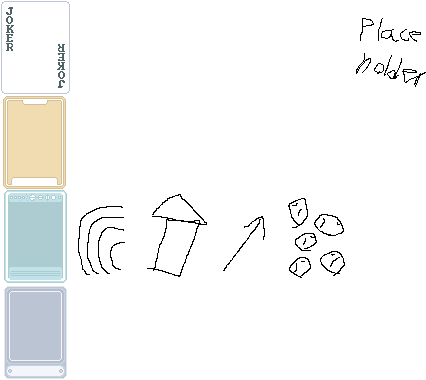
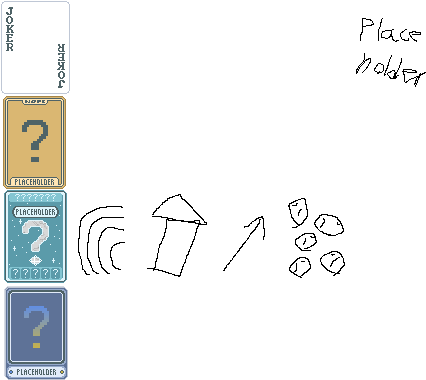
Some visual changes. Changed placeholder graphics. Fixed an error in the Spectrum demo hand. Updated Readme.

Changed region(s): [[0.0, 0.2316, 0.1831, 1.0]]

diff --git a/README.md b/README.md
@@ -1,7 +1,7 @@
 # SpectrumFramework
 A mod for Balatro that adds Spectrum hands (five cards, each of a different suit), for use alongside mods that add suits.
 
-Does _not_ add any additional suits of its own. If you install this mod by itself, playing Spectrum hands will require the use of Wild cards. But hey, maybe that's something you want to do.
+Does _not_ add any additional suits of its own.[^1] If you install this mod by itself, playing Spectrum hands will require the use of Wild cards. But hey, maybe that's something you want to do.
 
 Probably don't use this with mods that already add Spectrum hands! I don't know what will happen if you do that! I'd put them in the .json as conflicts but that stops them from even being installed, including if you turn them off, which seems weird and inconvenient.
 
@@ -11,7 +11,12 @@ Probably don't use this with mods that already add Spectrum hands! I don't know 
 
 ## Things planned to probably do
 - Jokers for the hands
+- Alternate lower score values for decks that make Spectra very easy to build (e.g. Cryptid's The Lovers deck, or a deck that starts with five or more suits)
 
 ## Things planned to possibly maybe do
 - Art for the planets which isn't a hilariously blatant placeholder
 - Figure out what to do about the conflicts thing
+
+A lot of this code came from [Bunco](https://github.com/Firch/Bunco), which in turn got it from [Six Suits](https://github.com/lshtech/SixSuits).
+
+[^1]: Okay technically it adds a fake wild suit to demonstrate the Spectrum hands. But you shouldn't actually see that in gameplay.
